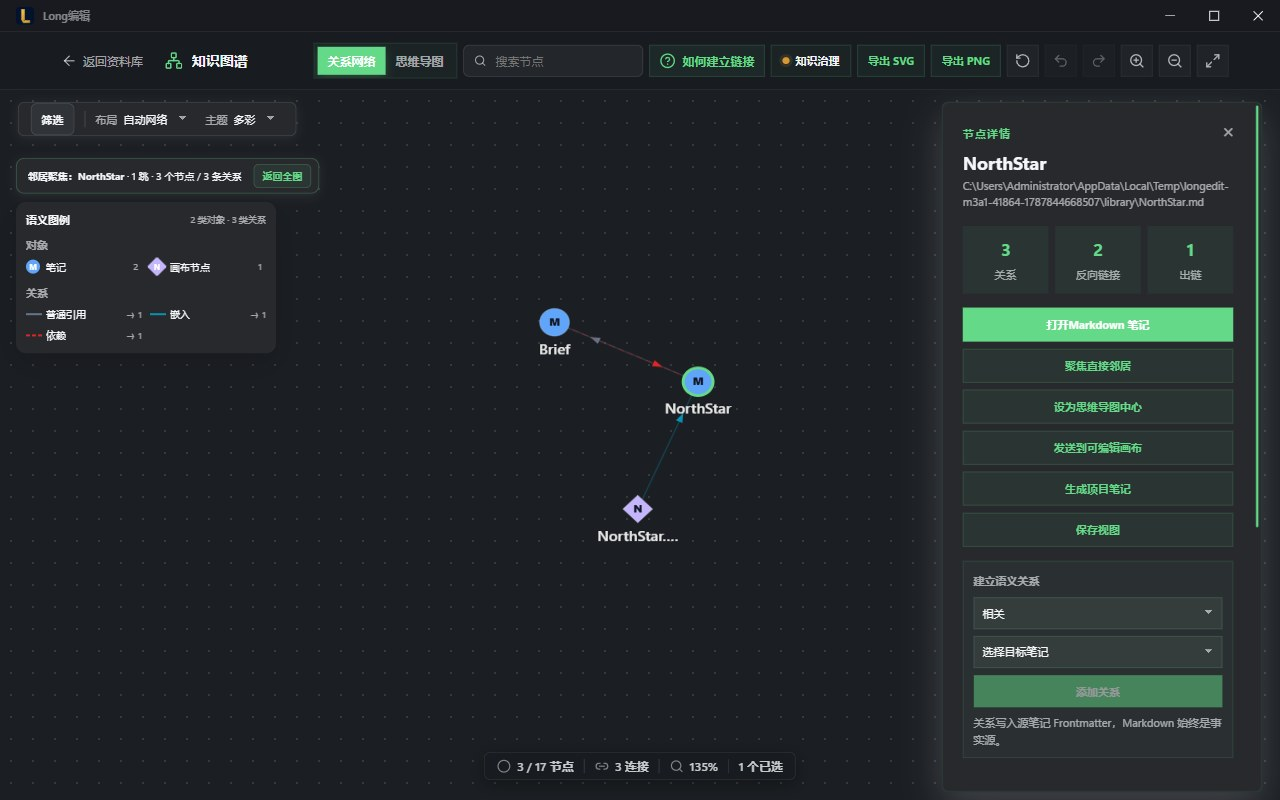
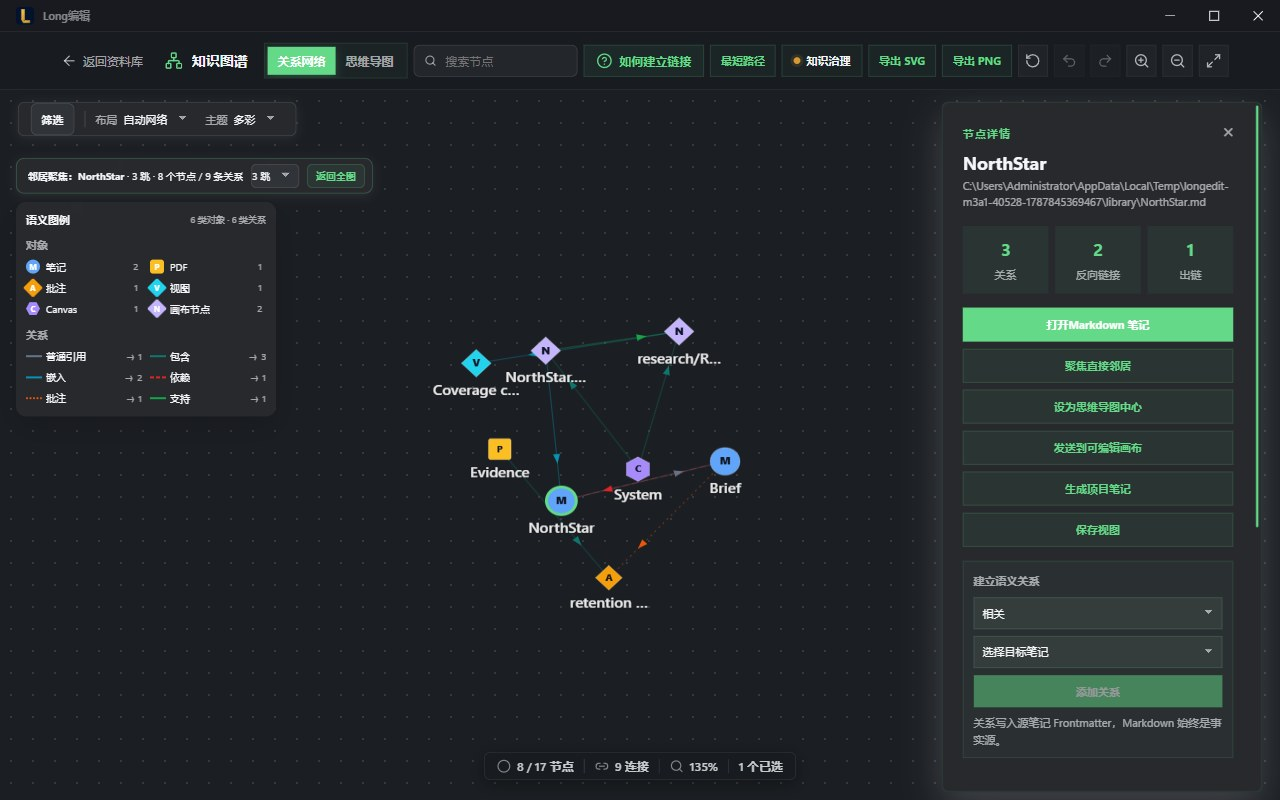
feat: add independently verified graph paths

diff --git a/src/components/GraphView.vue b/src/components/GraphView.vue
@@ -1,5 +1,5 @@
 <template>
-  <div class="graph-container" ref="containerRef" :class="[`graph-canvas-theme-${graphCanvasTheme}`, { 'neighbor-focus-active': neighborFocusRoot }]">
+  <div class="graph-container" ref="containerRef" :class="[`graph-canvas-theme-${graphCanvasTheme}`, { 'neighbor-focus-active': neighborFocusRoot, 'graph-path-active': pathOpen }]">
     <WorkspaceManagementHeader class="graph-header" title="知识图谱" @back="returnToLibrary">
       <template #icon><Network class="graph-header-icon" :size="18" /></template>
       <div class="graph-controls" data-horizontal-wheel="always">
@@ -15,6 +15,7 @@
           <CircleHelp :size="16" />
           <span>如何建立链接</span>
         </button>
+        <button class="graph-export-btn" :class="{ active: pathOpen }" data-testid="graph-path-entry" @click="togglePathPanel">最短路径</button>
         <button class="health-entry" :class="{ active: healthOpen }" @click="healthOpen = !healthOpen">
           <span class="health-dot"></span>知识治理
         </button>
@@ -82,9 +83,21 @@
       <button class="remediation-close" aria-label="关闭行动提示" @click="clearRemediation">×</button>
     </div>
     <div v-if="neighborFocusRoot" class="neighbor-focus-banner" data-testid="graph-neighbor-focus" :data-focus-root="neighborFocusRoot.id">
-      <span><strong>邻居聚焦：{{ neighborFocusRoot.title }}</strong> · 1 跳 · {{ visibleNodes.length }} 个节点 / {{ visibleEdges.length }} 条关系</span>
+      <span><strong>邻居聚焦：{{ neighborFocusRoot.title }}</strong> · {{ neighborFocusDepth }} 跳 · {{ visibleNodes.length }} 个节点 / {{ visibleEdges.length }} 条关系</span>
+      <select v-model.number="neighborFocusDepth" data-testid="graph-neighbor-focus-depth" aria-label="邻居聚焦深度"><option :value="1">1 跳</option><option :value="2">2 跳</option><option :value="3">3 跳</option></select>
       <button type="button" data-testid="graph-neighbor-focus-return" @click="clearNeighborFocus">返回全图</button>
     </div>
+    <section v-if="pathOpen" class="graph-path-panel" data-testid="graph-path-panel">
+      <div class="graph-path-fields">
+        <select v-model="pathStartId" data-testid="graph-path-start" aria-label="最短路径起点"><option value="">选择起点</option><option v-for="node in pathCandidates" :key="node.id" :value="node.id">{{ node.title }} · {{ objectTypeLabel(node.objectType) }}</option></select>
+        <span>→</span>
+        <select v-model="pathEndId" data-testid="graph-path-end" aria-label="最短路径终点"><option value="">选择终点</option><option v-for="node in pathCandidates" :key="node.id" :value="node.id">{{ node.title }} · {{ objectTypeLabel(node.objectType) }}</option></select>
+        <button type="button" data-testid="graph-path-run" :disabled="!pathStartId || !pathEndId || pathStartId === pathEndId" @click="runShortestPath">查找路径</button>
+      </div>
+      <div v-if="shortestPathResult?.status === 'found'" class="graph-path-result" data-testid="graph-path-found"><strong>{{ shortestPathResult.edges.length }} 跳</strong><span>{{ shortestPathChain }}</span><button type="button" data-testid="graph-path-return" @click="clearShortestPath">返回全图</button></div>
+      <div v-else-if="shortestPathResult?.status === 'unreachable'" class="graph-path-result unreachable" data-testid="graph-path-unreachable"><strong>没有可达路径</strong><span>当前筛选范围内两节点不连通，请更换节点或调整筛选。</span></div>
+      <button class="graph-path-close" type="button" aria-label="关闭最短路径" @click="closePathPanel">×</button>
+    </section>
     <GraphSemanticLegend :graph="visibleGraph" :dark="isActiveThemeDark(store.theme)" />
     <canvas
       ref="canvasRef"
@@ -288,7 +301,9 @@ import WorkspaceSegmentedControl from './workspace/WorkspaceSegmentedControl.vue
 import WorkspaceStatusBar from './workspace/WorkspaceStatusBar.vue'
 import { applyGraphFilters, useGraphFilters } from '../composables/useGraphFilters'
 import { clearGraphLayout, createGraphSvg, graphSvgToPng, restoreGraphLayout, saveGraphLayout } from '../utils/graphWorkspace'
+import { findShortestGraphPath } from '../utils/graphPath'
 import { graphLineDash, graphObjectSemantic, graphRelationSemantic, graphSemanticColor } from '../config/graphSemantics'
+import type { GraphPathResult } from '../utils/graphPath'
 import type { GraphData, GraphNode } from '../types/graph'
 
 const props = defineProps<{ show?: boolean }>()
@@ -315,6 +330,11 @@ const searchQuery = computed({ get: () => filters.query, set: value => { filters
 const selectedNode = ref<GraphNode | null>(null)
 const selectedNodeIds = ref<string[]>([])
 const neighborFocusRootId = ref('')
+const neighborFocusDepth = ref(1)
+const pathOpen = ref(false)
+const pathStartId = ref('')
+const pathEndId = ref('')
+const shortestPathResult = ref<GraphPathResult | null>(null)
 const contextNode = ref<GraphNode | null>(null)
 const contextMenu = reactive({ show: false, x: 0, y: 0 })
 type GraphLayoutMode = 'force' | 'tree' | 'organization' | 'radial' | 'timeline'
@@ -362,22 +382,40 @@ const neighborFocusNodeIds = computed(() => {
   const root = neighborFocusRoot.value
   if (!root) return null
   const ids = new Set([root.id])
-  for (const edge of graphData.value.edges) {
-    if (edge.source === root.id) ids.add(edge.target)
-    if (edge.target === root.id) ids.add(edge.source)
+  let frontier = [root.id]
+  for (let depth = 0; depth < neighborFocusDepth.value && frontier.length; depth += 1) {
+    const next: string[] = []
+    for (const current of frontier) {
+      for (const edge of graphData.value.edges) {
+        const neighbor = edge.source === current ? edge.target : edge.target === current ? edge.source : ''
+        if (neighbor && !ids.has(neighbor)) { ids.add(neighbor); next.push(neighbor) }
+      }
+    }
+    frontier = next
   }
   return ids
 })
+const activeShortestPath = computed(() => shortestPathResult.value?.status === 'found' ? shortestPathResult.value : null)
+const shortestPathNodeIds = computed(() => activeShortestPath.value ? new Set(activeShortestPath.value.nodeIds) : null)
 const visibleNodes = computed(() => {
   return remediationGraph.value.nodes.filter(node =>
     (!neighborFocusNodeIds.value || neighborFocusNodeIds.value.has(node.id))
+    && (!shortestPathNodeIds.value || shortestPathNodeIds.value.has(node.id))
     && (viewMode.value !== 'mindmap' || !mindmapNodeIds.value || mindmapNodeIds.value.has(node.id))
   )
 })
 
 const visibleNodeIds = computed(() => new Set(visibleNodes.value.map(node => node.id)))
-const visibleEdges = computed(() => remediationGraph.value.edges.filter(edge => visibleNodeIds.value.has(edge.source) && visibleNodeIds.value.has(edge.target)))
+const visibleEdges = computed(() => {
+  const pathEdges = activeShortestPath.value ? new Set(activeShortestPath.value.edges) : null
+  return remediationGraph.value.edges.filter(edge => visibleNodeIds.value.has(edge.source) && visibleNodeIds.value.has(edge.target) && (!pathEdges || pathEdges.has(edge)))
+})
 const visibleGraph = computed<GraphData>(() => ({ nodes: visibleNodes.value, edges: visibleEdges.value }))
+const pathCandidates = computed(() => [...remediationGraph.value.nodes].sort((a, b) => a.title.localeCompare(b.title, 'zh-CN') || a.id.localeCompare(b.id)))
+const shortestPathChain = computed(() => {
+  const nodeMap = new Map(graphData.value.nodes.map(node => [node.id, node.title]))
+  return activeShortestPath.value?.nodeIds.map(id => nodeMap.get(id) || id).join(' → ') || ''
+})
 const contextMenuOptions = computed(() => {
   const node = contextNode.value
   if (node) return [
@@ -894,7 +932,9 @@ const selectAndCenter = (node: GraphNode) => {
 }
 const focusSelectedNeighbors = () => {
   if (!selectedNode.value) return
+  closePathPanel()
   neighborFocusRootId.value = selectedNode.value.id
+  neighborFocusDepth.value = 1
   searchQuery.value = ''
   requestAnimationFrame(fitGraph)
 }
@@ -905,6 +945,26 @@ const clearNeighborFocus = () => {
     fitGraph()
     if (root) selectAndCenter(root)
   })
+}
+const togglePathPanel = () => pathOpen.value ? closePathPanel() : openPathPanel()
+const openPathPanel = () => {
+  neighborFocusRootId.value = ''
+  pathOpen.value = true
+  pathStartId.value ||= selectedNode.value?.id || ''
+}
+const clearShortestPath = () => {
+  shortestPathResult.value = null
+  requestAnimationFrame(fitGraph)
+}
+const closePathPanel = () => {
+  pathOpen.value = false
+  pathStartId.value = ''
+  pathEndId.value = ''
+  clearShortestPath()
+}
+const runShortestPath = () => {
+  shortestPathResult.value = findShortestGraphPath(remediationGraph.value, pathStartId.value, pathEndId.value)
+  if (shortestPathResult.value.status === 'found') requestAnimationFrame(fitGraph)
 }
 const focusHealthNode = (nodeId: string) => {
   const node = graphData.value.nodes.find(candidate => candidate.id === nodeId)
@@ -1576,6 +1636,7 @@ watch(remediationFocus, focus => {
   layoutSettled = false
 }, { immediate: true })
 watch(filters, () => {
+  shortestPathResult.value = null
   const visible = new Set(visibleNodes.value.map(node => node.id))
   selectedNodeIds.value = selectedNodeIds.value.filter(id => visible.has(id))
   if (selectedNode.value && !visible.has(selectedNode.value.id)) selectedNode.value = null
@@ -1625,6 +1686,7 @@ onUnmounted(() => { persistLayout(); window.clearTimeout(layoutSaveTimer); cance
 }
 
 .view-switch {
+  flex: none;
   display: flex;
   padding: 3px;
   border: 1px solid rgba(var(--theme-primary-rgb), 0.14);
@@ -1642,6 +1704,7 @@ onUnmounted(() => { persistLayout(); window.clearTimeout(layoutSaveTimer); cance
   cursor: pointer;
   font-size: 12px;
   font-weight: 650;
+  white-space: nowrap;
 }
 
 .view-switch button.active {
@@ -1705,9 +1768,11 @@ onUnmounted(() => { persistLayout(); window.clearTimeout(layoutSaveTimer); cance
 .mindmap-root { max-width: 180px; overflow: hidden; text-overflow: ellipsis; white-space: nowrap; color: var(--theme-text); }
 .match-count { color: var(--theme-primary); font-weight: 650; }
 .remediation-banner { position: absolute; top: calc(var(--workspace-management-header-height) + 58px); left: var(--workspace-floating-gutter); right: var(--workspace-floating-gutter); z-index: 3; min-height: 46px; display: grid; grid-template-columns: minmax(0,1fr) auto 24px; align-items: center; gap: 10px; padding: 7px 8px 7px 12px; border: 1px solid rgba(var(--theme-primary-rgb),.2); border-radius: 6px; color: var(--theme-text); background: color-mix(in srgb, var(--theme-card) 94%, transparent); backdrop-filter: blur(16px); box-shadow: var(--workspace-shadow-sm); }.remediation-copy { min-width: 0; display: grid; gap: 2px; }.remediation-banner strong { font-size: 11px; }.remediation-banner span { overflow: hidden; color: var(--theme-text-secondary); text-overflow: ellipsis; white-space: nowrap; font-size: var(--text-compact); }.remediation-actions { display: flex; align-items: center; gap: 6px; }.remediation-banner button { min-height: 28px; padding: 0 9px; border: 1px solid rgba(var(--theme-primary-rgb),.2); border-radius: 6px; color: var(--theme-primary); background: rgba(var(--theme-primary-rgb),.06); cursor: pointer; font-size: var(--text-compact); font-weight: 650; }.remediation-banner .remediation-close { width: 24px; min-height: 24px; padding: 0; border-color: transparent; color: var(--theme-text-secondary); background: transparent; font-size: 16px; }
-.neighbor-focus-banner { position: absolute; z-index: 7; top: 126px; left: 16px; max-width: min(520px, calc(100% - 32px)); min-height: 34px; display: flex; align-items: center; gap: 12px; padding: 5px 7px 5px 11px; border: 1px solid rgba(var(--theme-primary-rgb),.28); border-radius: 8px; color: var(--theme-text); background: color-mix(in srgb, var(--theme-card) 95%, transparent); box-shadow: var(--workspace-shadow-sm); backdrop-filter: blur(14px); font-size: 10px; }.neighbor-focus-banner span { min-width: 0; overflow: hidden; text-overflow: ellipsis; white-space: nowrap; }.neighbor-focus-banner button { flex: none; min-height: 24px; padding: 0 8px; border: 1px solid rgba(var(--theme-primary-rgb),.24); border-radius: 5px; color: var(--theme-primary); background: rgba(var(--theme-primary-rgb),.07); cursor: pointer; font-size: 10px; font-weight: 700; }.neighbor-focus-active :deep(.graph-semantic-legend) { top: 170px; }
+.neighbor-focus-banner { position: absolute; z-index: 7; top: 126px; left: 16px; max-width: min(560px, calc(100% - 32px)); min-height: 34px; display: flex; align-items: center; gap: 8px; padding: 5px 7px 5px 11px; border: 1px solid rgba(var(--theme-primary-rgb),.28); border-radius: 8px; color: var(--theme-text); background: color-mix(in srgb, var(--theme-card) 95%, transparent); box-shadow: var(--workspace-shadow-sm); backdrop-filter: blur(14px); font-size: 10px; }.neighbor-focus-banner span { min-width: 0; overflow: hidden; text-overflow: ellipsis; white-space: nowrap; }.neighbor-focus-banner select { flex: none; height: 24px; border: 1px solid var(--workspace-border-color); border-radius: 5px; color: var(--theme-text); background: var(--workspace-control-bg); font-size: 10px; }.neighbor-focus-banner button { flex: none; min-height: 24px; padding: 0 8px; border: 1px solid rgba(var(--theme-primary-rgb),.24); border-radius: 5px; color: var(--theme-primary); background: rgba(var(--theme-primary-rgb),.07); cursor: pointer; font-size: 10px; font-weight: 700; }.neighbor-focus-active :deep(.graph-semantic-legend) { top: 170px; }
+.graph-path-panel { position: absolute; z-index: 9; top: 126px; left: 16px; right: 16px; max-width: 760px; display: grid; gap: 6px; padding: 8px 36px 8px 10px; border: 1px solid rgba(var(--theme-primary-rgb),.28); border-radius: 8px; color: var(--theme-text); background: color-mix(in srgb, var(--theme-card) 96%, transparent); box-shadow: var(--workspace-shadow-sm); backdrop-filter: blur(14px); }.graph-path-fields { display: grid; grid-template-columns: minmax(120px,1fr) auto minmax(120px,1fr) auto; align-items: center; gap: 7px; }.graph-path-fields select { min-width: 0; height: 28px; border: 1px solid var(--workspace-border-color); border-radius: 5px; color: var(--theme-text); background: var(--workspace-control-bg); font-size: 10px; }.graph-path-fields button,.graph-path-result button { min-height: 28px; padding: 0 9px; border: 1px solid rgba(var(--theme-primary-rgb),.24); border-radius: 5px; color: var(--theme-primary); background: rgba(var(--theme-primary-rgb),.07); cursor: pointer; font-size: 10px; font-weight: 700; }.graph-path-fields button:disabled { opacity: .45; cursor: not-allowed; }.graph-path-result { min-width: 0; display: flex; align-items: center; gap: 8px; font-size: 10px; }.graph-path-result span { min-width: 0; overflow: hidden; color: var(--theme-text-secondary); text-overflow: ellipsis; white-space: nowrap; }.graph-path-result button { margin-left: auto; flex: none; }.graph-path-result.unreachable strong { color: var(--theme-warning, #d97706); }.graph-path-close { position: absolute; top: 6px; right: 7px; width: 24px; height: 24px; border: 0; color: var(--theme-text-secondary); background: transparent; cursor: pointer; font-size: 17px; }.graph-path-active :deep(.graph-semantic-legend) { top: 214px; }
 
 .tutorial-btn {
+  flex: none;
   height: var(--workspace-control-height);
   display: flex;
   align-items: center;
@@ -1721,7 +1786,10 @@ onUnmounted(() => { persistLayout(); window.clearTimeout(layoutSaveTimer); cance
   font-weight: 650;
   cursor: pointer;
   transition: all 0.3s var(--ease-premium);
+  white-space: nowrap;
 }
+
+.health-entry, .graph-export-btn { flex: none; white-space: nowrap; }
 
 .tutorial-btn:hover,
 .tutorial-btn.active {

diff --git a/src/utils/graphPath.ts b/src/utils/graphPath.ts
@@ -1,0 +1,51 @@
+import type { GraphData, GraphEdge } from '../types/graph'
+
+export type GraphPathResult =
+  | { status: 'found'; nodeIds: string[]; edges: GraphEdge[] }
+  | { status: 'unreachable'; nodeIds: []; edges: [] }
+  | { status: 'invalid'; nodeIds: []; edges: [] }
+
+export const findShortestGraphPath = (graph: GraphData, startId: string, endId: string): GraphPathResult => {
+  const nodeIds = new Set(graph.nodes.map(node => node.id))
+  if (!nodeIds.has(startId) || !nodeIds.has(endId)) return { status: 'invalid', nodeIds: [], edges: [] }
+  if (startId === endId) return { status: 'found', nodeIds: [startId], edges: [] }
+
+  const adjacency = new Map<string, Array<{ nodeId: string; edge: GraphEdge }>>()
+  for (const id of nodeIds) adjacency.set(id, [])
+  for (const edge of graph.edges) {
+    if (!nodeIds.has(edge.source) || !nodeIds.has(edge.target)) continue
+    adjacency.get(edge.source)?.push({ nodeId: edge.target, edge })
+    adjacency.get(edge.target)?.push({ nodeId: edge.source, edge })
+  }
+  for (const entries of adjacency.values()) entries.sort((a, b) => a.nodeId.localeCompare(b.nodeId) || a.edge.relationType.localeCompare(b.edge.relationType))
+
+  const queue = [startId]
+  const visited = new Set(queue)
+  const previous = new Map<string, { nodeId: string; edge: GraphEdge }>()
+  for (let cursor = 0; cursor < queue.length; cursor += 1) {
+    const current = queue[cursor]
+    for (const next of adjacency.get(current) || []) {
+      if (visited.has(next.nodeId)) continue
+      visited.add(next.nodeId)
+      previous.set(next.nodeId, { nodeId: current, edge: next.edge })
+      queue.push(next.nodeId)
+      if (next.nodeId === endId) {
+        cursor = queue.length
+        break
+      }
+    }
+  }
+  if (!previous.has(endId)) return { status: 'unreachable', nodeIds: [], edges: [] }
+
+  const pathNodes = [endId]
+  const pathEdges: GraphEdge[] = []
+  let current = endId
+  while (current !== startId) {
+    const step = previous.get(current)
+    if (!step) return { status: 'unreachable', nodeIds: [], edges: [] }
+    pathEdges.unshift(step.edge)
+    current = step.nodeId
+    pathNodes.unshift(current)
+  }
+  return { status: 'found', nodeIds: pathNodes, edges: pathEdges }
+}

diff --git a/docs/Post_v1.0.15_M3A3_Independently_Verified_Shortest_Path_Audit_2026-08-27.md b/docs/Post_v1.0.15_M3A3_Independently_Verified_Shortest_Path_Audit_2026-08-27.md
@@ -1,0 +1,32 @@
+# v1.0.15 后续 M3A-3 独立验证最短路径审计（2026-08-27）
+
+## 结论
+
+M3A-3 已完成。全局图谱新增显式起点、终点选择和最短路径入口；找到路径后只显示路径节点与实际路径边，保留关系原始方向、类型、线型和当前子图图例，并持续显示跳数、节点链与“返回全图”。无路径时不隐藏全图，显示明确的“当前筛选范围内不连通”状态。
+
+生产实现为独立纯函数 BFS。发现关系时把边作为双向邻接遍历，但结果继续携带并绘制原始 `GraphEdge`，没有把有向关系改写为无向事实。固定图谱使用另一份独立 BFS 距离 oracle 验证连通、并列最短、无路径、同节点和非法节点五种情况；并列路径按节点 ID 和关系类型稳定排序。
+
+## 真实桌面结果
+
+真实 Tauri 跨格式资料库中，`NorthStar → Evidence` 得到 3 跳路径：`NorthStar → Brief → PDF 批注 → Evidence`，画布从 17 节点/17 边缩减为 4 节点/3 边；返回后恢复 17/17。`NorthStar → Review.pptx` 显示无可达路径。1280×800 与 720×800 均无页面横向溢出，运行时错误为 0，可返回资料库，源文件 SHA-256 前后相同。
+
+人工复核发现新增入口一度导致顶部模式按钮和链接教程换行，已纠正为不可收缩的单行控制项，由既有横向滚动承接空间不足；重新采集后宽窄路径面板、范围图例和返回入口均可读。
+
+本阶段最终需求复核还发现 M3 路线要求 1～3 跳邻居聚焦，而此前 M3A-2 仅交付一跳。当前已补齐深度切换、单调扩展合同和真实桌面复验，并同步修正 M3A-2 审计，未通过缩小文档需求掩盖实现缺口。
+
+## 需求对齐与边界
+
+- 对齐“选择主题 → 展开局部子图 → 发送 Canvas”的原始旅程；路径只负责关系发现，不创建或修改关系。
+- 对齐 `FR-GRAPH-004`：路径边保留方向、关系类型与既有上下文事实；下一阶段继续补路径边证据回跳。
+- 筛选变化会清除旧路径结果，防止把旧筛选集合计算的路径冒充当前结果。
+- 不提前实现社区发现、路径动画或大图性能优化；公开/运行时仍为 `1.0.15`，开发目标仍为 `1.0.16`，`releaseCandidate=false`。
+
+## 验证与接续
+
+- `npm run build`
+- `npm run check:post-v115-m3a3-shortest-path`
+- `npm run audit:post-v115-m3a3-shortest-path`
+- `npm run check:graph-product-contract`
+- 证据：`docs/evidence/post-v115-m3a3-shortest-path/desktop.json`、`shortest-path-found.jpg`、`shortest-path-narrow.jpg`
+
+下一阶段固定为 **M3A-4 关系证据回跳**：让路径中的每条边展开来源语法、方向、类型和上下文，并能返回来源对象的准确位置；不得将单一 mention 冒充全部证据。

diff --git a/docs/Post_v1.0.15_M3A2_Neighbor_Focus_and_Return_Audit_2026-08-27.md b/docs/Post_v1.0.15_M3A2_Neighbor_Focus_and_Return_Audit_2026-08-27.md
@@ -2,15 +2,15 @@
 
 ## 结论
 
-M3A-2 已完成。选中节点详情新增“聚焦直接邻居”，以选中节点和所有一跳邻居构成可逆诱导子图；页面持续显示焦点、跳数、当前节点/关系数量和“返回全图”。聚焦状态只存在于当前前端会话，不写入文件或持久筛选。
+M3A-2 已完成并在后续需求复核中补齐。选中节点详情新增“聚焦直接邻居”，以选中节点为中心提供 1/2/3 跳可逆诱导子图；页面持续显示焦点、跳数、当前节点/关系数量和“返回全图”。聚焦状态只存在于当前前端会话，不写入文件或持久筛选。
 
-真实 Tauri 跨格式资料库从 17 节点/17 边聚焦为 3 节点/3 边，图例同步缩减为当前子图的 2 类对象和 3 类关系；点击返回后恢复 17 节点/17 边。运行时错误为 0，可继续返回资料库，临时资料库 SHA-256 前后相同。截图人工复核确认聚焦范围、返回入口和节点详情同时可见。
+真实 Tauri 跨格式资料库从 17 节点/17 边按 1/2/3 跳依次聚焦，结果分别为 3 节点/3 边、6 节点/7 边、8 节点/9 边；图例同步当前子图，点击返回后恢复 17 节点/17 边。运行时错误为 0，可继续返回资料库，临时资料库 SHA-256 前后相同。
 
 ## 需求对齐与边界
 
 - 复用 M3A-1 的统一对象/关系语义，没有另建类型或颜色映射。
 - 聚焦只改变可见集合，不改变事实源、关系数据、筛选持久值或保存行为。
-- 本步骤只实现明确的一跳邻居发现和返回，不把它扩张为最短路径、社区发现或性能优化。
+- 本步骤实现一至三跳邻居发现和返回，不把它扩张为最短路径、社区发现或性能优化。
 - 公开/运行时版本仍为 `1.0.15`，开发目标仍为 `1.0.16`，`releaseCandidate=false`。
 
 ## 验证与接续点

diff --git a/docs/Development_Alignment_and_Closure_Plan_2026-08-02.md b/docs/Development_Alignment_and_Closure_Plan_2026-08-02.md
@@ -79,4 +79,6 @@ P1 总收口已完成，v1.0.12 发布、远端复核和官方更新链也均已
 
 M3-0 的 100/1000/5000 节点真实性能基线已经建立；M3A-1 已把 11 类对象、12 类关系及用户图例收敛到统一语义事实源，并通过跨格式真实 Tauri 宽窄窗口验证。当前执行 M3A-2 邻居聚焦与返回；最短路径、社区发现、视觉镜头和大图生命周期继续按独立阶段推进。公开/运行时版本保持 `1.0.15`，开发目标保持 `1.0.16`，当前不是发布候选。
 
-M3A-2 已完成选中节点的一跳邻居诱导子图、持续范围说明和显式返回全图，真实跨格式图谱完成 17/17 → 3/3 → 17/17 往返且源文件不变。当前接续点为 M3A-3 独立验证的双节点最短路径。
+M3A-2 已完成选中节点的 1/2/3 跳邻居诱导子图、持续范围说明和显式返回全图，真实跨格式图谱完成 17/17 → 3/3、6/7、8/9 → 17/17 往返且源文件不变。当前接续点为 M3A-3 独立验证的双节点最短路径。
+
+M3A-3 已完成生产 BFS 与独立距离 oracle 对照、双节点路径 UI、无路径状态和返回全图；真实图谱完成 17/17 → 4/3 → 17/17。当前接续点为 M3A-4 路径边全部证据展示与来源位置回跳。

diff --git a/docs/Current_Development_Status_and_M3_Entry_Audit_2026-08-27.md b/docs/Current_Development_Status_and_M3_Entry_Audit_2026-08-27.md
@@ -107,4 +107,8 @@ M3A-1 已完成。当前代码由统一注册表解释 11 类对象和 12 类关
 
 ## 10. 2026-08-27 M3A-2 进度回写
 
-M3A-2 已完成一跳邻居聚焦、持续范围说明、当前子图图例与显式返回全图。真实跨格式图谱完成 17/17 → 3/3 → 17/17 节点/边往返，零运行时错误、源文件不变。当前阶段前移到 **M3A-3 独立验证的最短路径**。
+M3A-2 已完成 1/2/3 跳邻居聚焦、持续范围说明、当前子图图例与显式返回全图。真实跨格式图谱在 1/2/3 跳下分别为 3/3、6/7、8/9，返回后恢复 17/17，零运行时错误、源文件不变。当前阶段前移到 **M3A-3 独立验证的最短路径**。
+
+## 11. 2026-08-27 M3A-3 进度回写
+
+M3A-3 已完成双节点最短路径、独立 BFS 距离对照、稳定并列路径、无路径状态和返回全图。真实跨格式图谱完成 17/17 → 4/3 → 17/17 往返，宽窄屏、零运行时错误和源文件不变通过。当前阶段前移到 **M3A-4 关系证据回跳**。
